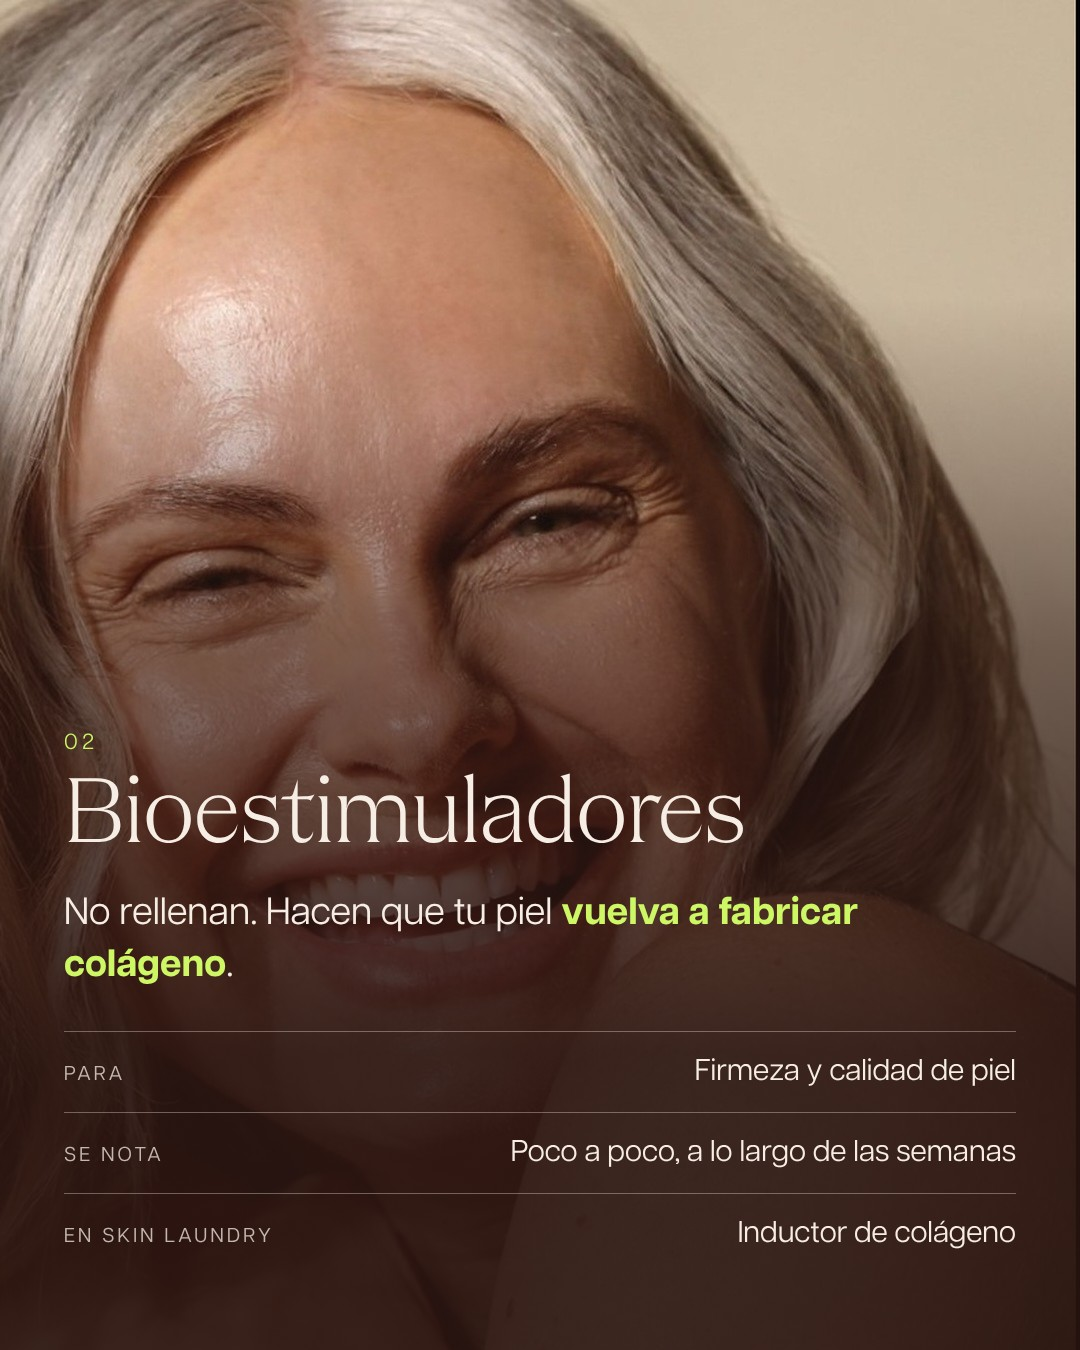
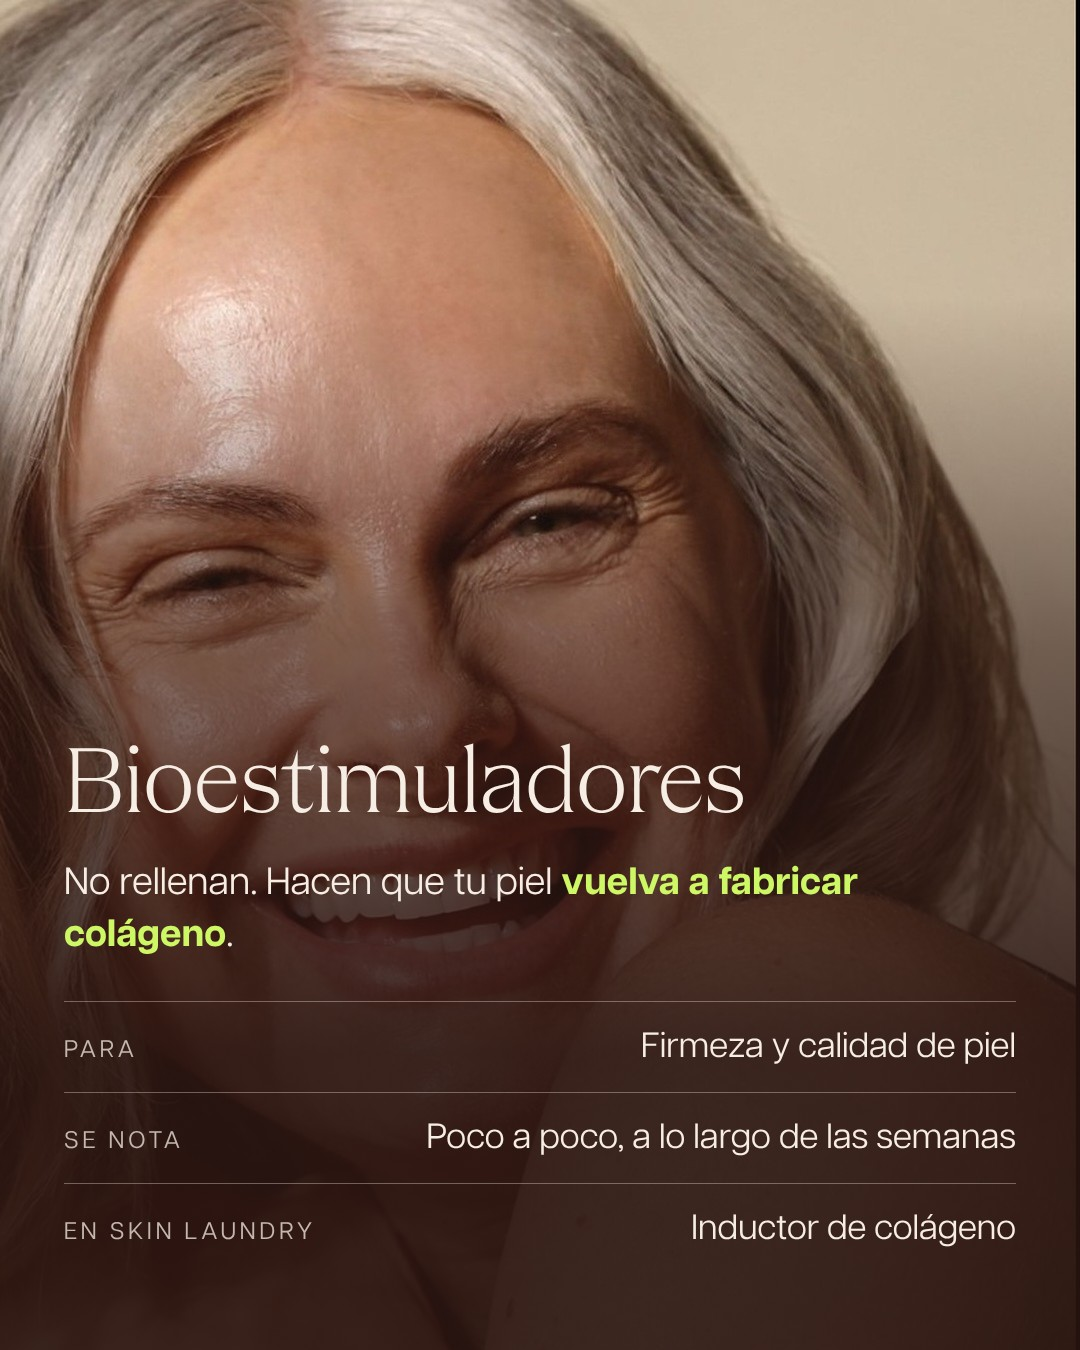
Calendario noviembre: slides 2 y 3 del 14 sin número y con la tabla más grande
Claude-Session: https://claude.ai/code/session_01JZ4qrB4vBJCM1LriYw1bZU

diff --git a/public/pitch/skin-laundry-calendario/noviembre/index.html b/public/pitch/skin-laundry-calendario/noviembre/index.html
@@ -686,7 +686,7 @@ Reserva tu cita desde el enlace de la bio.
 📍 Av. Diagonal 610, Barcelona
 #Neuromoduladores #MitosYVerdades #MedicinaEsteticaBarcelona #SkinLaundryBarcelona` },
 
-{ d:14, formato:"Carrusel", estado:"listo", storyImg:"/pitch/skin-laundry-calendario/noviembre/img/st_14.jpg?v=11120146", cubo:"Med. estética", tema:"Hialurónico", hora:"11:00h", media:"/pitch/skin-laundry-calendario/noviembre/img/d14_hy_1.jpg?v=11121320", slides:["/pitch/skin-laundry-calendario/noviembre/img/d14_hy_1.jpg?v=11121320","/pitch/skin-laundry-calendario/noviembre/img/d14_hy_2.jpg?v=11121325","/pitch/skin-laundry-calendario/noviembre/img/d14_hy_3.jpg?v=11121325","/pitch/skin-laundry-calendario/noviembre/img/d14_hy_4.jpg?v=11121325","/pitch/skin-laundry-calendario/noviembre/img/d14_hy_5.jpg?v=11121325"],
+{ d:14, formato:"Carrusel", estado:"listo", storyImg:"/pitch/skin-laundry-calendario/noviembre/img/st_14.jpg?v=11120146", cubo:"Med. estética", tema:"Hialurónico", hora:"11:00h", media:"/pitch/skin-laundry-calendario/noviembre/img/d14_hy_1.jpg?v=11121320", slides:["/pitch/skin-laundry-calendario/noviembre/img/d14_hy_1.jpg?v=11121320","/pitch/skin-laundry-calendario/noviembre/img/d14_hy_2.jpg?v=11121329","/pitch/skin-laundry-calendario/noviembre/img/d14_hy_3.jpg?v=11121329","/pitch/skin-laundry-calendario/noviembre/img/d14_hy_4.jpg?v=11121325","/pitch/skin-laundry-calendario/noviembre/img/d14_hy_5.jpg?v=11121325"],
   pieza:"Hialurónico vs. bioestimuladores",
   base:"Carta: volumen y calidad de piel", cta:"Consulta previa con nuestros médicos",
   nota:"Fotos de modelo: confirmar que son de Canto o de un shooting con derechos · contenido médico pendiente de revisión por la doctora",
